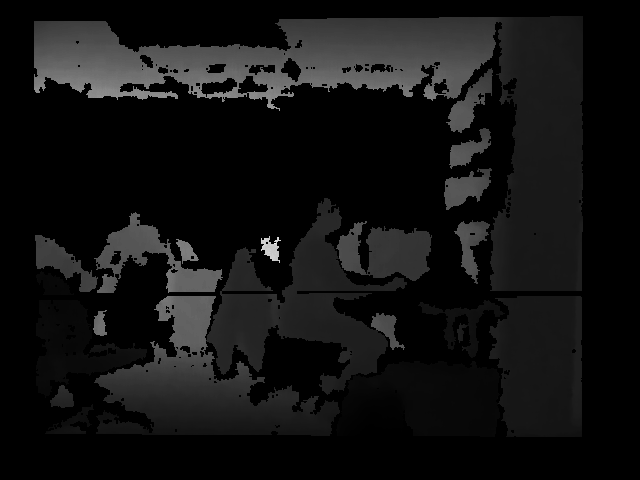
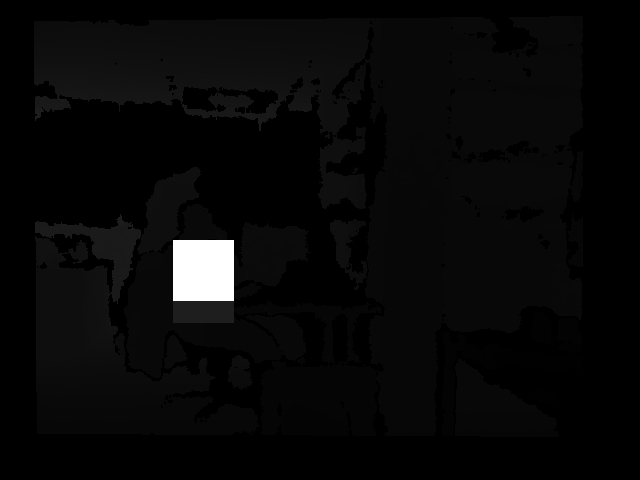
Refactored pose finding and set for pose retrieval.

diff --git a/pose_finding/pose_finding.py b/pose_finding/pose_finding.py
@@ -1,0 +1,204 @@
+#!/usr/bin/env python
+
+"""
+    Pose Finding Service.
+
+    ROS service that estimates
+    the real world coordinate
+    pose of the detected humans.
+"""
+
+# Modules
+import os
+import cv2
+import sys
+import math
+import rospy
+import numpy as np
+
+from pathlib import Path
+from sensor_msgs.msg import Image, CameraInfo
+from cv_bridge import CvBridge, CvBridgeError
+from human_aware_robot_navigation.srv import *
+from human_aware_robot_navigation.msg import *
+from image_geometry import PinholeCameraModel
+
+class PoseFinding:
+
+    def __init__(self):
+        """
+            Constructor.
+        """
+        self.initialised = False
+
+        # PinholeCameraModel object
+        self.pcm = PinholeCameraModel()
+
+        # Publishing rate
+        self.rate = rospy.Rate(10)
+
+        # Constant path
+        self.path = str(Path(os.path.dirname(os.path.abspath(__file__))).parents[0])
+
+        # Publisher (custom detection message)
+        self.info_sub  = rospy.Subscriber("/xtion/rgb/camera_info", CameraInfo, self.callback)
+        self.rgb_sub   = rospy.Subscriber("/xtion/rgb/image_raw", Image, self.callback2)
+
+    def callback(self, info_msg):
+        """
+            Sets the received info msg.
+
+            Arguments:
+                sensor_msgs/Image: Camera info msg
+        """
+        if not self.initialised:
+            self.pcm.fromCameraInfo(info_msg)
+            self.initialised = True
+
+    def callback2(self, rgb_image):
+        """
+            Sets the received info msg.
+
+            Arguments:
+                sensor_msgs/Image: Camera info msg
+        """
+        try:
+            cv_image = CvBridge().imgmsg_to_cv2(rgb_image, 'bgr8')
+            self.pcm.rectifyImage(cv_image, cv_image)
+            print(cv_image.shape)
+            self.store2(cv_image)
+
+        except Exception as CvBridgeError:
+            print('Error during image conversion: ', CvBridgeError)
+
+    # # Raw to OpenCV conversion
+    def store(self, cv_image):
+        """
+            Stores the converted cv_image
+            in memory to be further processed
+            by a different node.
+
+            Arguments:
+                param1: MAT image
+        """
+        cv2.normalize(cv_image, cv_image, 0, 1, cv2.NORM_MINMAX)
+        cv2.imwrite(self.path + "/data/depth_image/depth_image.png", cv_image*255)
+
+    # # Raw to OpenCV conversion
+    def store2(self, cv_image):
+        """
+            Stores the converted cv_image
+            in memory to be further processed
+            by a different node.
+
+            Arguments:
+                param1: MAT image
+        """
+        cv2.imwrite(self.path + "/data/depth_image/rect_img.png", cv_image)
+
+    def toMat(self, depth_raw_image):
+        """
+            Converts depth image into
+            a floating point numpy array
+            of meter values.
+        """
+        try:
+            # Depth raw image to OpenCV format
+            cv_depth_image = CvBridge().imgmsg_to_cv2(depth_raw_image, '32FC1')
+
+            # DO NOT uncomment
+            # self.store(cv_depth_image)
+
+            return cv_depth_image
+
+        except Exception as CvBridgeError:
+            print('Error during image conversion: ', CvBridgeError)
+
+    def getDepths(self, req):
+        """
+            Receives detections and
+            fetches their respective
+            distances from the depth
+            map, building a Distances
+            message.
+
+            Arguments:
+                sensor_msgs/Image: Raw depth image
+
+            Returns:
+                Distances: Distances message
+        """
+        # Custom distances message
+        distances = Distances()
+
+        # Convert depth image into MAT
+        cv_depth_image = self.toMat(req.depth)
+
+        # Populate our distances array
+        if req.detections.number_of_detections > 0:
+
+            # Iterate over the detections
+            for detection in req.detections.array:
+
+                # Sliding window centre point
+                # and size of neighbours
+                d = 30
+                i = detection.centre_x
+                j = detection.centre_y
+
+                print("Centre point: ", cv_depth_image[j,i])
+                print("Rectify point: ", self.pcm.rectifyPoint((j,i)))
+                print("3D point: ", self.pcm.projectPixelTo3dRay((j,i)))
+                print("2D point: ", self.pcm.project3dToPixel((2.19, -1.34, 0.391)))
+                print("P matrix: ", self.pcm.projectionMatrix())
+
+                # Fetch window around the centre of the
+                # bounding box and get rid of NaN values
+                roi = cv_depth_image[j-d:j+d+1, i-d:i+d+1]
+                roi = roi[~np.isnan(roi)]
+
+                # print("ROI: ", roi)
+
+                # Copy over detections items
+                # for future 1 to 1 mapping
+                distance = Distance()
+                distance.ID = detection.ID
+
+                # Compute average distance over
+                # ROI window
+                avr_distance = np.sum(roi) / roi.size
+
+                # Average distance of the person
+                distance.distance = avr_distance
+
+                # Aggregate the distance to the
+                # general distances array
+                distances.array.append(distance)
+
+                cv_depth_image[j-d:j+d+1, i-d:i+d+1] = 8
+                self.store(cv_depth_image)
+
+        # Return response back to the caller
+        return RequestDepthResponse(distances)
+
+def main(args):
+
+    # Initialise node
+    rospy.init_node('mapping', anonymous=True)
+
+    try:
+        # Create class object
+        pf = PoseFinding()
+
+        # Detection service
+        service = rospy.Service('rgb_to_depth_mapping', RequestDepth, pf.getDepths)
+
+        # Spin it baby !
+        rospy.spin()
+
+    except KeyboardInterrupt as e:
+        print('Error during main execution' + e)
+
+# Execute main
+if __name__ == '__main__':
+    main(sys.argv)

diff --git a/rgb_detection/cv_conversion.py b/rgb_detection/cv_conversion.py
@@ -115,8 +115,6 @@ def main(args):
         # Subscriptions (via Subscriber package)
         rgb_sub   = message_filters.Subscriber("/xtion/rgb/image_rect_color", Image)
         depth_sub = message_filters.Subscriber("/xtion/depth_registered/hw_registered/image_rect_raw", Image)
-        # depth_sub = message_filters.Subscriber("/xtion/depth_registered/hw_registered/image_rect_raw", Image)
-        # point_sub = message_filters.Subscriber("/xtion/depth_registered/points", PointCloud2)
 
         # Synchronize subscriptions
         ats = message_filters.ApproximateTimeSynchronizer([rgb_sub, depth_sub], queue_size=2, slop=0.3)

diff --git a/rgb_detection/human_detection.py b/rgb_detection/human_detection.py
@@ -88,7 +88,6 @@ class PersonDetection:
 
         # Resize image to be maximum 400px wide
         frame = imutils.resize(frame, width = 400)
-        print("Frame shape: ", frame.shape)
 
         # Blob conversion (detecion purposes)
         (h, w) = frame.shape[:2]
